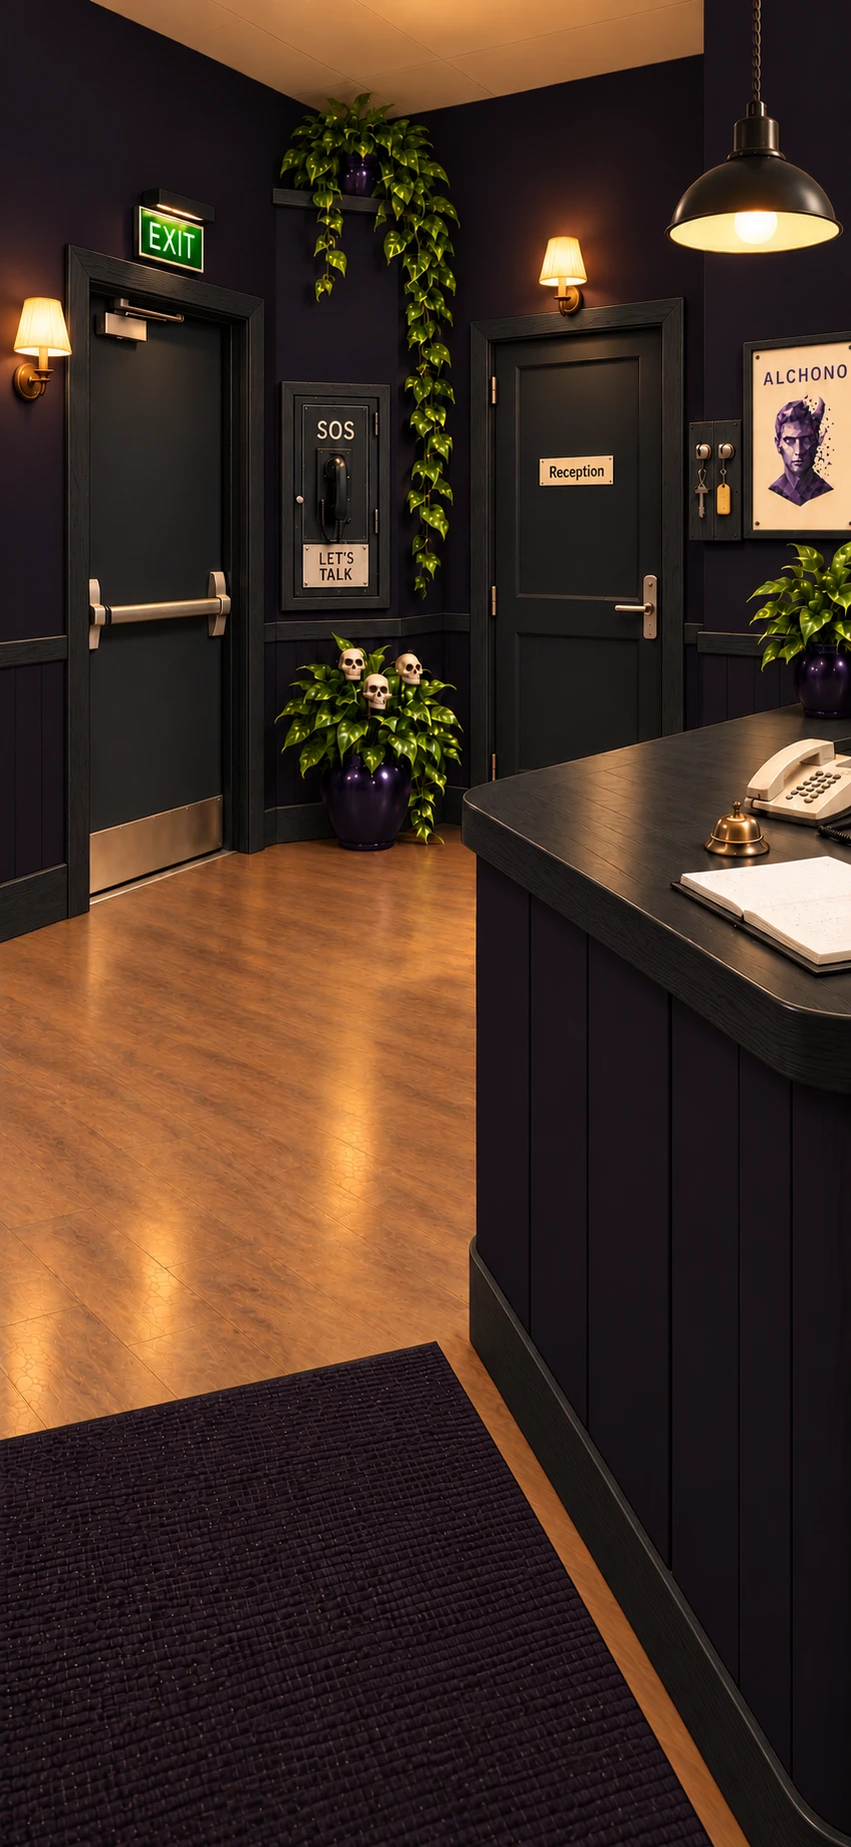
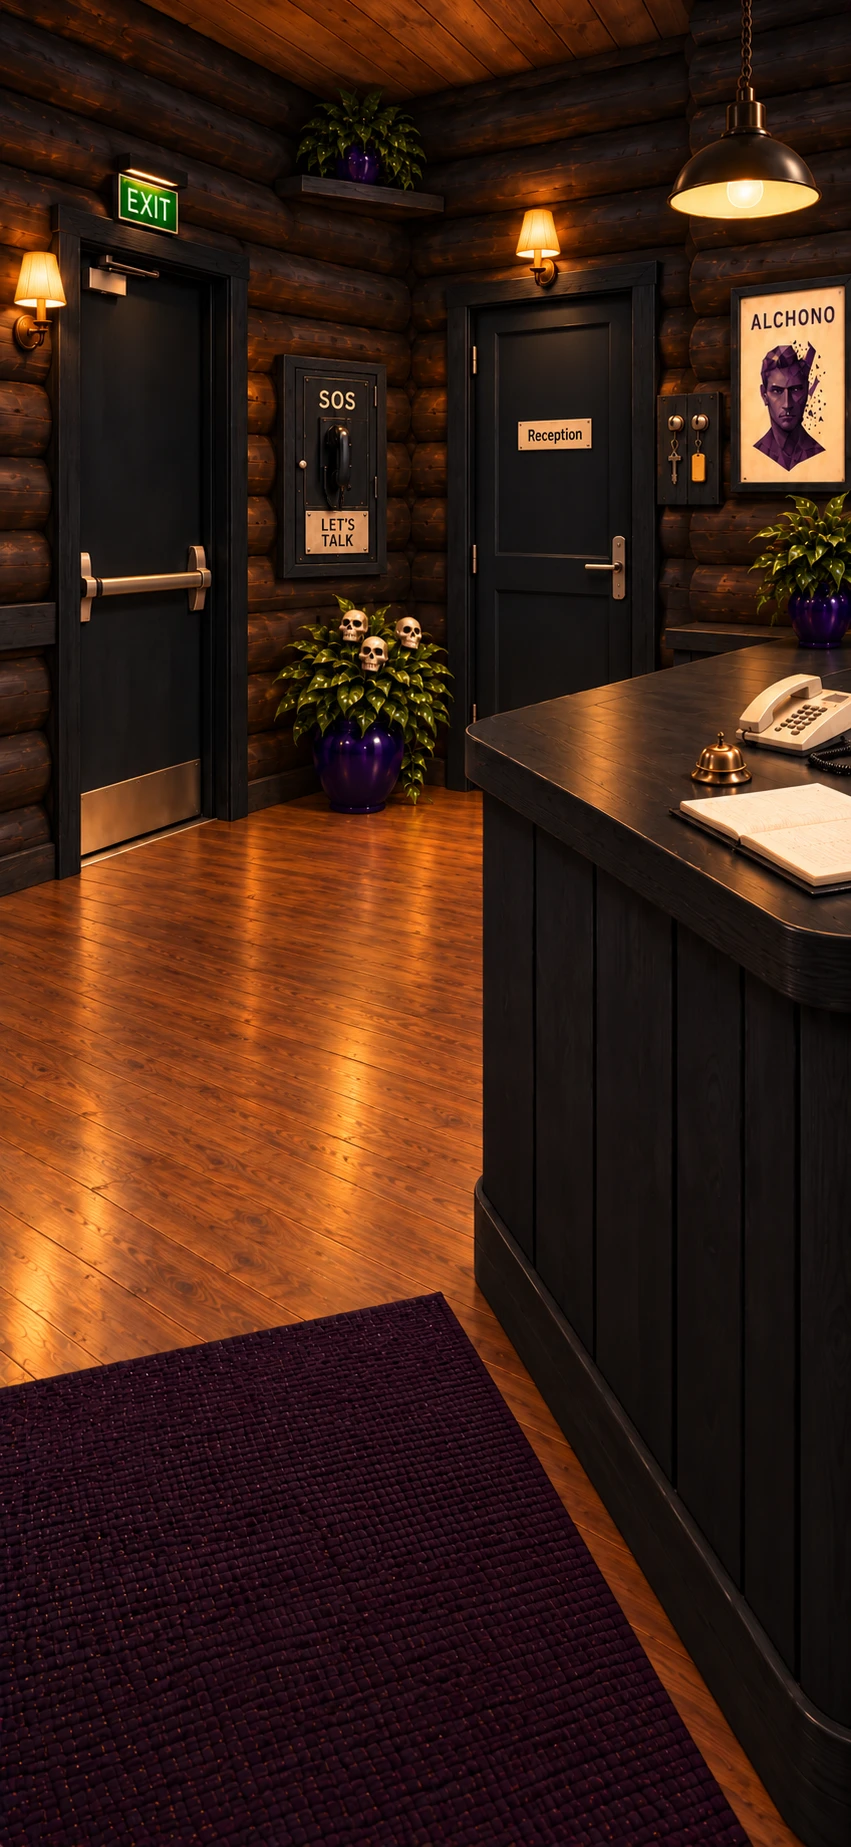
art: cabin restyle batch 1 — home x3, reading, writing (+ unhook stale night frames)
New cabin-in-the-woods look. Removed now-wrong-style nightImage refs for
these rooms (night falls back to the cabin day art until cabin night frames
exist). reading_room -> 851x1847; writing_room -> 934x1684.

Claude-Session: https://claude.ai/code/session_01KKhQMghLUspva6Yzs31jQ3

diff --git a/src/data/hubScene.ts b/src/data/hubScene.ts
@@ -125,7 +125,6 @@ export const HUB_NODES: Record<string, HubNode> = {
     id: "front",
     title: "Alchono",
     image: require("../../assets/scenes/home_front.png"),
-    nightImage: require("../../assets/scenes/home_front_night.png"),
     imgW: 851,
     imgH: 1847,
     fit: "screen",
@@ -158,7 +157,6 @@ export const HUB_NODES: Record<string, HubNode> = {
     id: "left",
     title: "Reception & Exit",
     image: require("../../assets/scenes/home_left.png"),
-    nightImage: require("../../assets/scenes/home_left_night.png"),
     imgW: 851,
     imgH: 1847,
     fit: "screen",
@@ -181,7 +179,6 @@ export const HUB_NODES: Record<string, HubNode> = {
     id: "right",
     title: "Arcade & Café-Bar",
     image: require("../../assets/scenes/home_right.png"),
-    nightImage: require("../../assets/scenes/home_right_night.png"),
     imgW: 851,
     imgH: 1847,
     fit: "screen",
@@ -209,9 +206,8 @@ export const HUB_NODES: Record<string, HubNode> = {
     id: "reading_room",
     title: "Reading Room",
     image: require("../../assets/scenes/reading_room.png"),
-    nightImage: require("../../assets/scenes/reading_room_night.png"),
-    imgW: 1024,
-    imgH: 1536,
+    imgW: 851,
+    imgH: 1847,
     fit: "screen",
     back: "front",
     hotspots: [
@@ -287,9 +283,8 @@ export const HUB_NODES: Record<string, HubNode> = {
     id: "writing_room",
     title: "Writing Room",
     image: require("../../assets/scenes/writing_room.png"),
-    nightImage: require("../../assets/scenes/writing_room_night.png"),
-    imgW: 1024,
-    imgH: 1536,
+    imgW: 934,
+    imgH: 1684,
     fit: "screen",
     back: "front",
     hotspots: [
